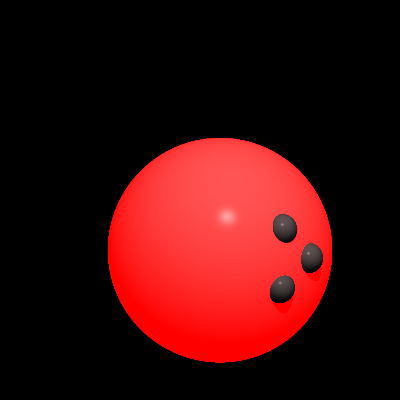
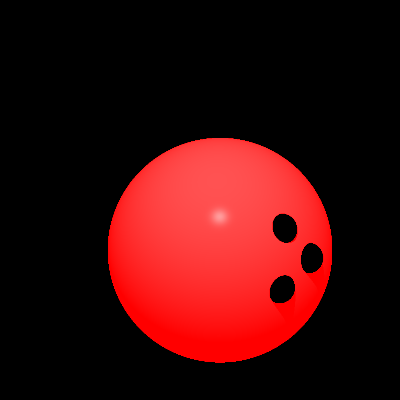
7-step 2 in process&&bowling ball in process

diff --git a/tests/bowling_ball/BowlingBall.java b/tests/bowling_ball/BowlingBall.java
@@ -32,19 +32,19 @@ public class BowlingBall {
                         .setMaterial(new Material().setDiffuse(0.5).setSpecular(0.5).setShininess(100)),
                 new Sphere(7.6, new Point3D(-17, -38, 42)) //
                         .setEmission(new Color(Color.BLACK)) //
-                        .setMaterial(new Material().setDiffuse(0.5).setSpecular(0.5).setShininess(100)), ////
+                        .setMaterial(new Material().setDiffuse(0).setSpecular(0).setShininess(100)), ////
                 new Sphere(7.6, new Point3D(11, -39, 43)) //
                         .setEmission(new Color(Color.BLACK)) //
-                        .setMaterial(new Material().setDiffuse(0.5).setSpecular(0.5).setShininess(100)), ////
+                        .setMaterial(new Material().setDiffuse(0).setSpecular(0).setShininess(100)), ////
                 new Sphere(7.6, new Point3D(-3, -52, 34)) //
                         .setEmission(new Color(Color.BLACK)) //
-                        .setMaterial(new Material().setDiffuse(0.5).setSpecular(0.5).setShininess(100)) ////
+                        .setMaterial(new Material().setDiffuse(0).setSpecular(0).setShininess(100)) ////
 
 
         );
         scene.lights.add(
                 //new DirectionalLight(new Color())//
-                new SpotLight(new Color(300, 255, 255), new Point3D(400, -88, 600), new Vector(1, 1, -5))//
+                new SpotLight(new Color(300, 255, 255), new Point3D(400, 0, 600), new Vector(1, 1, -5))//
                         .setKl(1E-5).setKq(1.5E-7));
 //                new PointLight(new Color(500, 250, 250), new Point3D(-80, -80, -130)).setKl(0.00005).setKq(0.00005));
 
